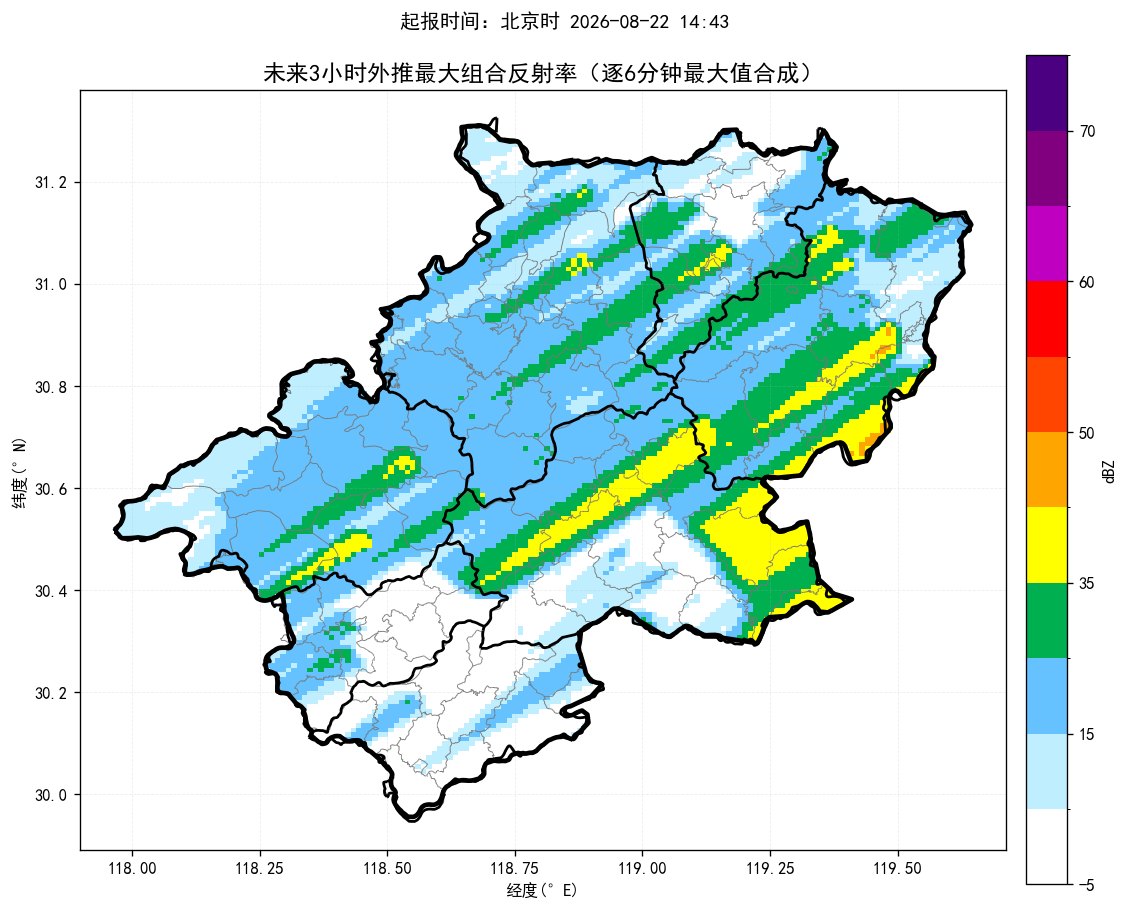
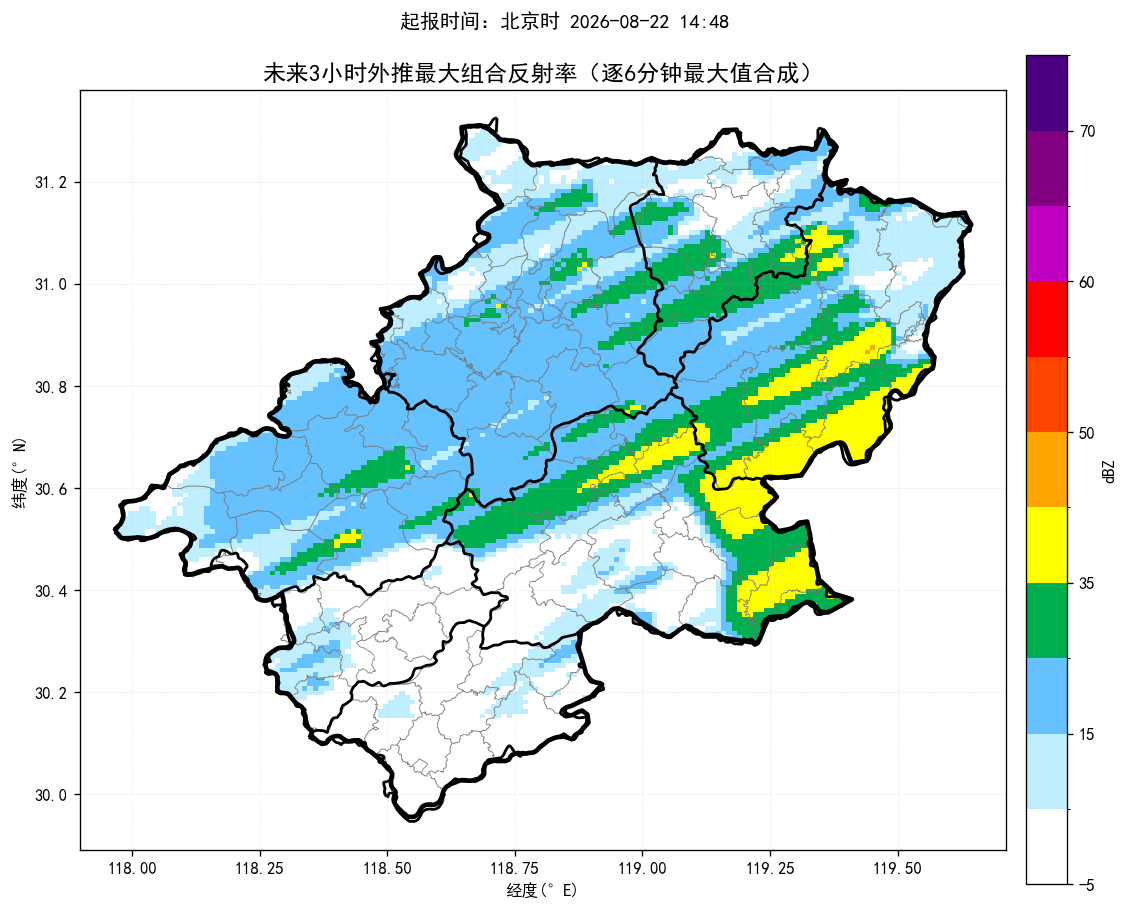
update nowcast products

Changed region(s): [[0.0931, 0.1538, 0.8688, 0.7692], [0.3103, 0.6769, 0.5275, 0.8615]]

diff --git a/index.html b/index.html
@@ -14,14 +14,14 @@ img.product{display:block;width:100%;height:auto;margin:10px auto 26px;border:1p
 .footer{font-size:13px;color:#777;text-align:center;margin-top:30px}
 @media(max-width:700px){.sheet{margin:0;padding:18px 15px}.alert-title{font-size:22px}.county-line{font-size:17px}.prob{font-size:18px}}
 </style></head><body><main class="sheet">
-<div class="time">起报时间：北京时 2026-08-22 14:43</div>
+<div class="time">起报时间：北京时 2026-08-22 14:48</div>
 <div class="alert-title">未来一小时降水量超过 20 毫米的乡镇：</div><div class="county-line">无</div>
 <div class="alert-title">未来三小时降水量超过 50 毫米的乡镇：</div><div class="county-line">无</div>
 <div class="alert-title">未来三小时雷暴大风（组合反射率 > 55 dBZ）的乡镇：</div><div class="county-line">无</div>
-<div class="prob">最大降水量概率预估：宣城市范围内未来三小时降水偏小，最大预报约9.6毫米，暂不进行50/80/100毫米概率预估。</div>
-<div class="section-title">未来降水预报图：</div><img class="product auto-refresh-product" data-src="短临降水预报.png" src="短临降水预报.png?v=20260822144850" alt="未来降水预报图">
-<div class="section-title">未来三小时组合反射率图：</div><img class="product auto-refresh-product" data-src="未来3小时组合反射率.png" src="未来3小时组合反射率.png?v=20260822144850" alt="未来三小时组合反射率图">
-<div class="section-title">未来三小时雷暴大风图：</div><img class="product auto-refresh-product" data-src="未来3小时雷暴大风.png" src="未来3小时雷暴大风.png?v=20260822144850" alt="未来三小时雷暴大风图">
+<div class="prob">最大降水量概率预估：宣城市范围内未来三小时降水偏小，最大预报约10.5毫米，暂不进行50/80/100毫米概率预估。</div>
+<div class="section-title">未来降水预报图：</div><img class="product auto-refresh-product" data-src="短临降水预报.png" src="短临降水预报.png?v=20260822145430" alt="未来降水预报图">
+<div class="section-title">未来三小时组合反射率图：</div><img class="product auto-refresh-product" data-src="未来3小时组合反射率.png" src="未来3小时组合反射率.png?v=20260822145430" alt="未来三小时组合反射率图">
+<div class="section-title">未来三小时雷暴大风图：</div><img class="product auto-refresh-product" data-src="未来3小时雷暴大风.png" src="未来3小时雷暴大风.png?v=20260822145430" alt="未来三小时雷暴大风图">
 <div class="footer">三张产品图每 60 秒自动刷新一次；每次请求自动附加新的URL参数以绕过缓存。</div>
 <script>
 (function() {
